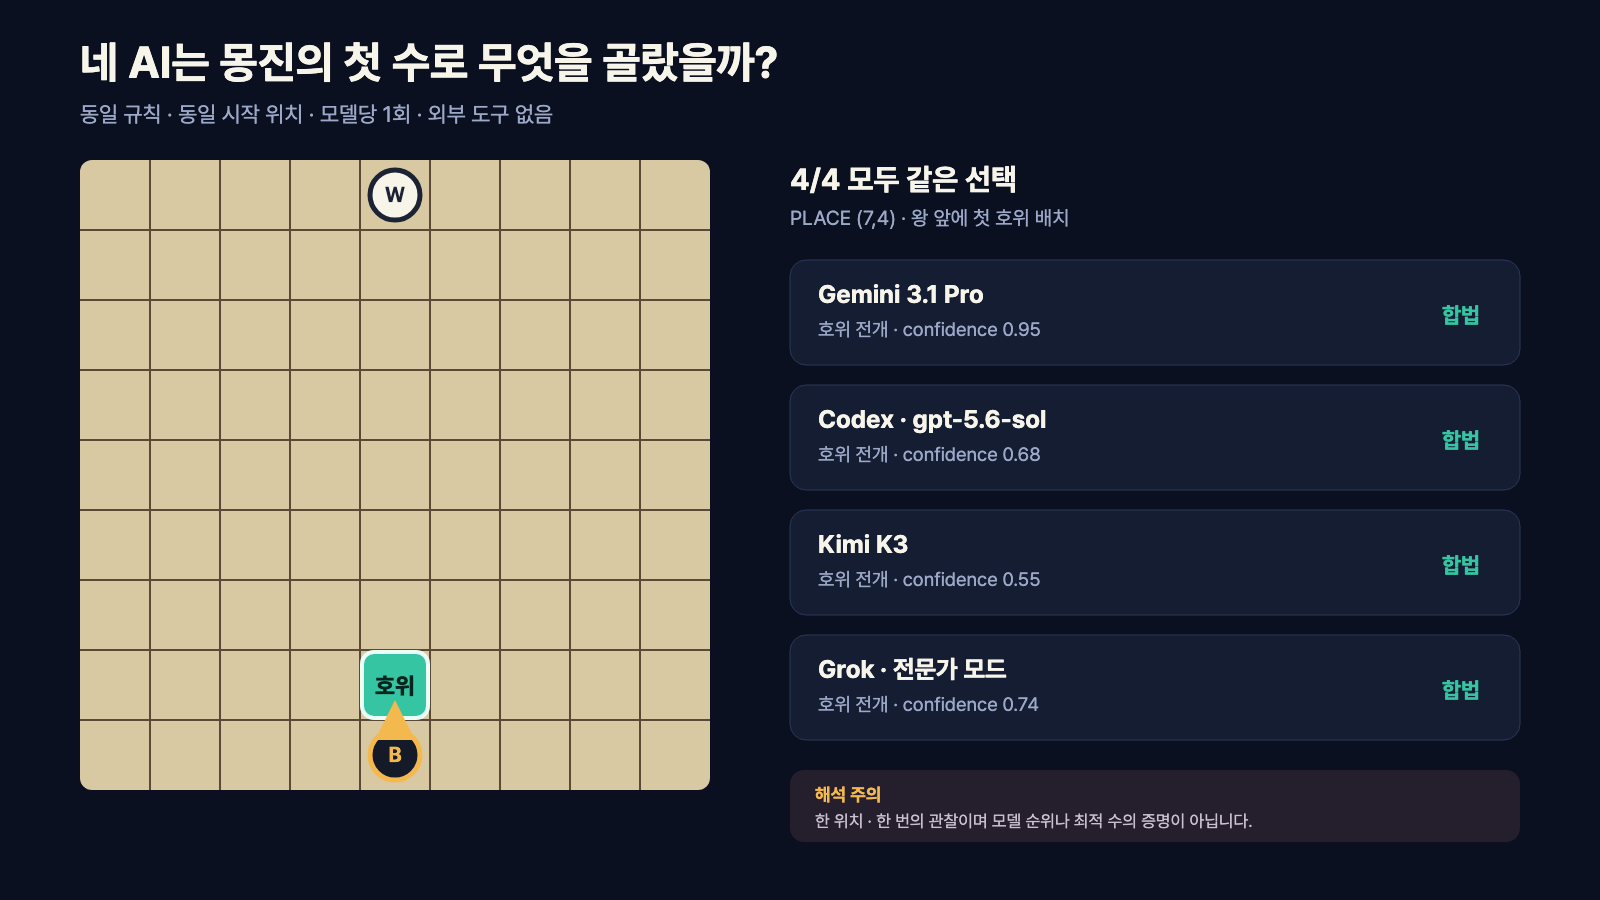
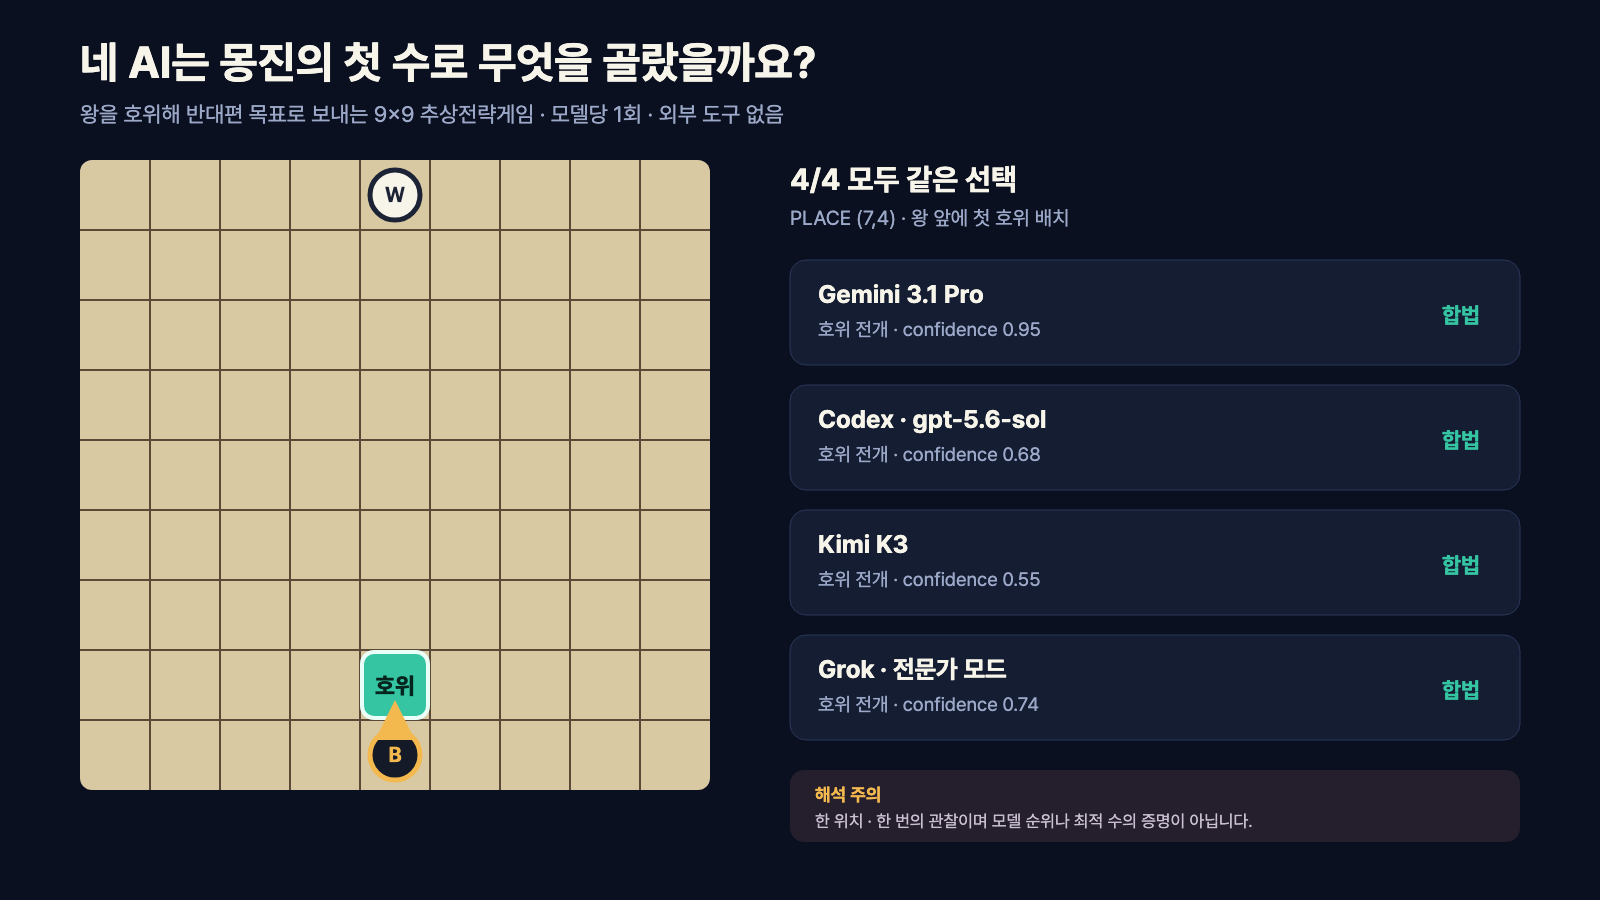
Refine launch content tone and context

Changed region(s): [[0.0625, 0.0933, 0.5, 0.1556], [0.4688, 0.0311, 0.5312, 0.0933]]

diff --git a/content/content-001-four-model-first-move/ARTICLE_KO.md b/content/content-001-four-model-first-move/ARTICLE_KO.md
@@ -1,23 +1,25 @@
-# 처음 보는 추상전략게임, 네 AI는 같은 첫 수를 둘까?
+# 처음 보는 추상전략게임, 네 AI는 같은 첫 수를 둘까요?
 
-직접 만든 추상전략게임 **몽진(蒙塵)**을 재현 가능한 AI 실험장으로 만드는 첫 실험을 시작했다. 첫 참가자는 Gemini, Codex, Kimi K3, Grok이다.
+직접 만든 **몽진(蒙塵)**은 왕을 호위해 9×9 보드 반대편의 목표 칸까지 보내는 2인 완전정보 추상전략게임입니다. 이 게임을 재현 가능한 AI 실험장으로 만드는 첫 실험을 시작했습니다.
+
+이번 참가 모델은 Gemini, Codex, Kimi K3, Grok입니다. **Claude(클로드)는 예산 문제로 구독하지 않았기 때문에 이번 실험에서 제외했습니다.**
 
 ![네 AI의 몽진 첫 수 실험 결과](assets/result-board.png)
 
-처음부터 한 판 전체를 시키지는 않았다. AI가 규칙을 이해했는지, 인터페이스가 안정적인지, 장기 전략을 세울 수 있는지를 한꺼번에 시험하면 실패 원인을 알 수 없기 때문이다. 이번에는 가장 작은 질문 하나만 던졌다.
+처음부터 한 판 전체를 맡기지는 않았습니다. AI가 규칙을 이해했는지, 인터페이스가 안정적인지, 장기 전략을 세울 수 있는지를 한꺼번에 시험하면 실패 원인을 알 수 없기 때문입니다. 이번에는 가장 작은 질문 하나만 던졌습니다.
 
-> 두 왕만 놓인 몽진의 시작 위치에서, 흑의 첫 수로 무엇을 고를 것인가?
+> 두 왕만 놓인 몽진의 시작 위치에서, 흑의 첫 수로 무엇을 고를까요?
 
 ## 네 모델이 받은 정보
 
-모든 모델에 같은 한국어 규칙, 같은 좌표계, 같은 초기 위치, 같은 여섯 개의 합법 수를 제공했다. 검색과 외부 도구는 허용하지 않았다. 답은 수 하나와 짧은 판단 근거를 담은 JSON으로 제한했다.
+모든 모델에 같은 한국어 규칙, 같은 좌표계, 같은 초기 위치, 같은 여섯 개의 합법 수를 제공했습니다. 검색과 외부 도구는 허용하지 않았습니다. 답은 수 하나와 짧은 판단 근거를 담은 JSON으로 제한했습니다.
 
-첫 위치에서 흑은 왕을 앞으로 또는 옆으로 움직일 수도 있고, 왕 바로 앞에 첫 호위를 배치할 수도 있다. 왕의 전진은 목표에 한 칸 가까워지지만 왕을 먼저 노출한다. 호위 배치는 느리지만 진로와 전투 기반을 만든다.
+첫 위치에서 흑은 왕을 앞으로 또는 옆으로 움직일 수도 있고, 왕 바로 앞에 첫 호위를 배치할 수도 있습니다. 왕의 전진은 목표에 한 칸 가까워지지만 왕을 먼저 노출합니다. 호위 배치는 느리지만 진로와 전투 기반을 만듭니다.
 
 ## 결과
 
-네 모델은 모두 합법 수를 반환했다. 그리고 선택까지 같았다. **네 모델
-전부 흑 왕 바로 앞 `(7,4)`에 첫 호위를 배치했다.**
+네 모델은 모두 합법 수를 반환했습니다. 선택까지 같았습니다. **네 모델
+전부 흑 왕 바로 앞 `(7,4)`에 첫 호위를 배치했습니다.**
 
 | 모델 | 선택한 첫 수 | 전략 분류 | 자신감 | 합법 여부 |
 |---|---|---|---:|---:|
@@ -26,27 +28,27 @@
 | Kimi K3 | `(7,4)`에 호위 배치 | 호위 전개 | 0.55 | 합법 |
 | Grok 전문가 모드 | `(7,4)`에 호위 배치 | 호위 전개 | 0.74 | 합법 |
 
-합법 수 비율은 **4/4, 100%**였다. 네 답변의 공통 논리는 왕을 먼저
-노출하기보다 정면에 방어선과 다음 호위 배치의 거점을 만들자는 것이었다.
-선택은 같았지만 스스로 매긴 자신감은 0.55부터 0.95까지 달랐다.
+합법 수 비율은 **4/4, 100%**였습니다. 네 답변의 공통 논리는 왕을 먼저
+노출하기보다 정면에 방어선과 다음 호위 배치의 거점을 만들자는 것이었습니다.
+선택은 같았지만 스스로 매긴 자신감은 0.55부터 0.95까지 달랐습니다.
 
-응답시간도 기록했지만 모델 속도 비교에는 쓰지 않았다. Gemini와 Grok은
+응답시간도 기록했지만 모델 속도 비교에는 사용하지 않았습니다. Gemini와 Grok은
 구독 웹 화면, Codex와 Kimi는 구독 인증 CLI를 사용했기 때문에 전송 조건이
-서로 다르다.
+서로 다릅니다.
 
 ## 이 결과에서 생긴 다음 질문
 
-네 모델의 합의가 실제로 좋은 오프닝을 뜻할까, 아니면 제공한 규칙과 후보 수의
-표현이 같은 직관을 유도했을까? 첫 콘텐츠에서 얻은 진짜 후속 질문은 이것이다.
+네 모델의 합의가 실제로 좋은 오프닝을 뜻할까요, 아니면 제공한 규칙과 후보 수의
+표현이 같은 직관을 유도했을까요? 첫 콘텐츠에서 얻은 후속 질문은 이것입니다.
 다음 실험에서는 후보 수 목록을 주지 않고 엔진이 합법 여부만 판정하게 하거나,
-동일한 중반 위치를 여러 번 제시해 선택이 유지되는지 확인할 수 있다.
+동일한 중반 위치를 여러 번 제시해 선택이 유지되는지 확인할 수 있습니다.
 
 ## 이 결과가 말하지 않는 것
 
-이 실험은 모델당 한 번, 단 하나의 위치만 사용한다. 따라서 모델의 전체 게임 실력이나 우열을 말할 수 없다. 이번에 확인하는 것은 처음 보는 규칙을 읽고 합법적인 전략 선택을 반환하는 첫 관문뿐이다.
+이 실험은 모델당 한 번, 단 하나의 위치만 사용했습니다. 따라서 모델의 전체 게임 실력이나 우열을 말할 수 없습니다. 이번에 확인한 것은 처음 보는 규칙을 읽고 합법적인 전략 선택을 반환하는 첫 관문뿐입니다.
 
 ## 다음 실험
 
-다음에는 독자 투표로 고른 AI에게 Greedy 기준 봇을 상대로 실제 한 판을 끝까지 맡긴다. 첫 수의 합의가 완주 대국의 전략 차이로 이어지는지 확인할 예정이다.
+다음에는 자동화 경로가 가장 안정적인 Codex부터 Greedy 기준 봇을 상대로 실제 한 판을 끝까지 맡길 예정입니다. 첫 수의 합의가 완주 대국에서도 일관된 전략으로 이어지는지 확인하겠습니다.
 
-[실험 프롬프트, 원문 응답, 정규화 결과](https://github.com/KAMILOKWON/mongjin-arena/tree/69a99eb3568f833086191a94c71e8f7c0faf67d0/experiments/exp-002-four-model-first-move)는 `mongjin-arena` 공개 저장소에 고정해 두었다.
+[실험 프롬프트, 원문 응답, 정규화 결과](https://github.com/KAMILOKWON/mongjin-arena/tree/69a99eb3568f833086191a94c71e8f7c0faf67d0/experiments/exp-002-four-model-first-move)는 `mongjin-arena` 공개 저장소에 고정해 두었습니다.

diff --git a/content/content-001-four-model-first-move/SOCIAL.md b/content/content-001-four-model-first-move/SOCIAL.md
@@ -2,23 +2,35 @@
 
 ## X / Threads
 
-처음 보는 추상전략게임의 첫 수를 AI에게 맡기면 서로 같은 선택을 할까?
+### 1/3
 
-Gemini, Codex, Kimi K3, Grok에게 몽진의 동일한 규칙과 여섯 개 합법 수를 줬다. 검색 없이 수 하나와 짧은 근거만 반환하게 했다.
+처음 보는 추상전략게임의 첫 수를 AI에게 맡기면 서로 같은 선택을 할까요?
 
-결과: 4/4 모두 합법 수. 그리고 네 모델 전부 흑 왕 앞 `(7,4)`에 호위를 배치했다.
+몽진은 왕을 호위해 9×9 보드 반대편의 목표 칸까지 보내는 2인 완전정보 게임입니다. 호위로 길을 만들면서 상대의 진격을 막아야 합니다.
+
+### 2/3
+
+Gemini, Codex, Kimi K3, Grok에게 같은 규칙과 여섯 개 합법 수를 제공했습니다. 검색 없이 수 하나와 짧은 근거만 반환하게 했습니다.
+
+Claude(클로드)는 예산 문제로 구독하지 않았기 때문에 이번 실험에서 제외했습니다.
+
+### 3/3
+
+결과는 4/4 모두 합법 수였습니다. 네 모델 전부 흑 왕 앞 `(7,4)`에 호위를 배치했습니다.
 
 같은 결론, 다른 자신감: Gemini 0.95 / Grok 0.74 / Codex 0.68 / Kimi 0.55.
-한 위치에서 한 번 관찰한 결과라 모델 순위나 최적 수의 증명은 아니다.
+한 위치에서 한 번 관찰한 결과이므로 모델 순위나 최적 수의 증명은 아닙니다.
 
-다음에는 어떤 AI의 완주 대국을 보고 싶나요?
+다음에는 자동화가 안정적인 Codex부터 Greedy 봇과 한 판 전체를 진행하겠습니다.
+
+실험 기록: https://github.com/KAMILOKWON/mongjin-arena/tree/69a99eb3568f833086191a94c71e8f7c0faf67d0/experiments/exp-002-four-model-first-move
 
 ## GeekNews / Disquiet
 
-직접 만든 추상전략게임 몽진을 AI 에이전트 실험장으로 공개하는 과정의 첫 실험입니다. 네 구독형 AI에 동일한 규칙과 초기 위치를 주고 첫 수 하나를 선택하게 했습니다. 네 모델 모두 합법 수를 반환했고, 전부 왕 앞 `(7,4)` 호위 배치를 골랐습니다. 모델 순위가 아니라 규칙 이해와 첫 전략 직관을 관찰한 devlog이며, 프롬프트와 원문 응답을 모두 공개합니다. https://github.com/KAMILOKWON/mongjin-arena/tree/69a99eb3568f833086191a94c71e8f7c0faf67d0/experiments/exp-002-four-model-first-move
+몽진은 왕을 호위해 9×9 보드 반대편의 목표 칸까지 보내는 2인 완전정보 추상전략게임입니다. 이 게임을 AI 에이전트 실험장으로 공개하는 첫 단계로 Gemini, Codex, Kimi K3, Grok에 동일한 규칙과 초기 위치를 주고 첫 수 하나를 선택하게 했습니다. Claude(클로드)는 예산 문제로 구독하지 않아 이번 실험에서 제외했습니다. 네 모델 모두 합법 수를 반환했고, 전부 왕 앞 `(7,4)` 호위 배치를 골랐습니다. 모델 순위가 아니라 규칙 이해와 첫 전략 직관을 관찰한 개발 기록이며, 프롬프트와 원문 응답을 모두 공개합니다. https://github.com/KAMILOKWON/mongjin-arena/tree/69a99eb3568f833086191a94c71e8f7c0faf67d0/experiments/exp-002-four-model-first-move
 
 ## YouTube title candidates
 
-1. Gemini·Codex·Kimi·Grok에게 처음 보는 보드게임을 줘봤다
-2. 네 AI는 몽진의 첫 수로 무엇을 골랐을까?
-3. AI마다 첫 수가 다를까? 직접 만든 전략게임으로 실험했다
+1. Gemini·Codex·Kimi·Grok에게 처음 보는 보드게임을 맡겨봤습니다
+2. 네 AI는 몽진의 첫 수로 무엇을 골랐을까요?
+3. AI마다 첫 수가 다를까요? 직접 만든 전략게임으로 실험했습니다

diff --git a/content/content-001-four-model-first-move/VIDEO.md b/content/content-001-four-model-first-move/VIDEO.md
@@ -3,11 +3,11 @@
 | Time | Visual | Narration |
 |---:|---|---|
 | 0–5s | Empty 9×9 board, two kings, four model logos/names | “처음 보는 게임의 첫 수를 AI에게 맡기면 모두 같은 선택을 할까요?” |
-| 5–15s | Mongjin title and three win conditions | “몽진은 왕을 호위해 반대편 목표로 보내는 9×9 추상전략게임입니다.” |
-| 15–25s | Six legal opening moves highlighted | “네 모델에 같은 규칙과 같은 여섯 개 합법 수만 줬습니다.” |
-| 25–55s | Four cards all reveal `PLACE (7,4)`, then confidence values | “네 모델 모두 왕 앞에 호위를 뒀습니다. 왕을 노출하기 전에 방어선과 전개 거점을 만들자는 판단도 같았습니다.” |
-| 55–70s | `4/4 legal` and one combined move overlay | “이건 한 위치의 한 번짜리 관찰이지 모델 순위나 최적 수의 증명은 아닙니다.” |
-| 70–90s | Greedy bot waiting across board, poll overlay | “다음에는 누구에게 한 판 전체를 맡길까요?” |
+| 5–15s | Mongjin title, board, king and guards | “몽진은 왕을 호위해 9×9 보드 반대편의 목표 칸까지 보내는 2인 완전정보 추상전략게임입니다.” |
+| 15–28s | Four model names and six legal opening moves | “Gemini, Codex, Kimi K3, Grok에 같은 규칙과 여섯 개 합법 수를 제공했습니다. Claude, 즉 클로드는 예산 문제로 구독하지 않아 제외했습니다.” |
+| 28–55s | Four cards all reveal `PLACE (7,4)`, then confidence values | “네 모델 모두 왕 앞에 호위를 뒀습니다. 왕을 노출하기 전에 방어선과 전개 거점을 만들자는 판단도 같았습니다.” |
+| 55–72s | `4/4 legal` and one combined move overlay | “이 결과는 한 위치에서 한 번 관찰한 것이므로 모델 순위나 최적 수의 증명은 아닙니다.” |
+| 72–90s | Codex versus Greedy match preview | “다음에는 자동화 경로가 안정적인 Codex부터 Greedy 봇과 한 판 전체를 진행하겠습니다.” |
 
 Do not show hidden chain-of-thought. Use only the requested short strategic
 summary from each model.

diff --git a/content/content-001-four-model-first-move/ARTICLE_EN.md b/content/content-001-four-model-first-move/ARTICLE_EN.md
@@ -1,8 +1,13 @@
 # Four AIs Saw Mongjin for the First Time. Would They Choose the Same Opening?
 
-I am turning **Mongjin (蒙塵)**, an abstract strategy game I designed, into a
-reproducible AI testbed. The first participants are Gemini, Codex, Kimi
-K3, and Grok.
+**Mongjin (蒙塵)** is a two-player, perfect-information abstract strategy game I
+designed. Each player escorts a king across a 9×9 board toward the three center
+goal squares on the opposite edge while using guards to build paths, block, and
+capture.
+
+I am turning Mongjin into a reproducible AI testbed. The first participants are
+Gemini, Codex, Kimi K3, and Grok. **Claude is not included because I did not
+subscribe to it due to the project budget.**
 
 ![Four-model Mongjin opening result](assets/result-board.png)
 
@@ -41,5 +46,6 @@ interface reliability; it does not rank general intelligence or Mongjin skill.
 The unanimity creates a better follow-up question: is guard development
 actually strong, or did the way I presented the rules and candidates guide all
 four systems toward the same intuition? Next I will remove the explicit move
-list or test repeated midgame positions, then let the audience choose an agent
-for a complete game against the deterministic Greedy baseline.
+list or test repeated midgame positions. After that, Codex—the most reliable
+automation path in this setup—will play a complete game against the
+deterministic Greedy baseline.

diff --git a/content/content-001-four-model-first-move/BRIEF.md b/content/content-001-four-model-first-move/BRIEF.md
@@ -2,16 +2,20 @@
 
 - Source: `exp-002-four-model-first-move`
 - Tier: devlog
-- Core question: 처음 보는 게임의 규칙과 합법 수만 받은 네 AI는 어떤 첫 수를 고를까?
+- Core question: 처음 보는 게임의 규칙과 합법 수만 받은 네 AI는 어떤 첫 수를 고를까요?
 - Models: Gemini, Codex, Kimi K3, Grok
+- Exclusion note: Claude(클로드)는 예산 문제로 구독하지 않아 이번 실험에서 제외
 - Audience: AI agent/eval builders, indie game developers, abstract strategy players
 - One metric: legal opening move rate
 - One visual: four model cards around the 9×9 opening board
 - Primary format: Korean development blog post plus 60–90 second video
 - Secondary formats: English GitHub note, X thread, GeekNews/Disquiet summary
-- CTA: 다음 실험에서 어느 AI의 완주 대국을 보고 싶은지 투표
+- Next step: 자동화 경로가 안정적인 Codex부터 Greedy 기준 봇과 완주 대국
 
 ## Editorial guardrail
 
 This is a first-position observation with one sample per model. Never call it a
 ranking, benchmark, intelligence test, or proof that one model is stronger.
+Every derivative must briefly explain that Mongjin is a 9×9 abstract strategy
+game about escorting a king to the opposite goal, and must state why Claude is
+not included. Korean copy uses polite speech throughout.

diff --git a/content/content-001-four-model-first-move/PUBLISH_CHECKLIST.md b/content/content-001-four-model-first-move/PUBLISH_CHECKLIST.md
@@ -8,8 +8,11 @@
 - [x] No claim uses “best”, “smartest”, or “benchmark winner”
 - [x] One-sample limitation appears in article and video
 - [x] No hidden chain-of-thought is shown
+- [x] Every derivative briefly explains Mongjin
+- [x] Claude exclusion is attributed to budget and no subscription
+- [x] Korean copy uses polite speech
+- [x] No audience poll or response-dependent CTA remains
 - [x] Git commit permalink is added
 - [ ] Korean master post published
 - [ ] English GitHub note published
 - [ ] X/Threads post published
-- [ ] Viewer poll for the complete-match agent is active
